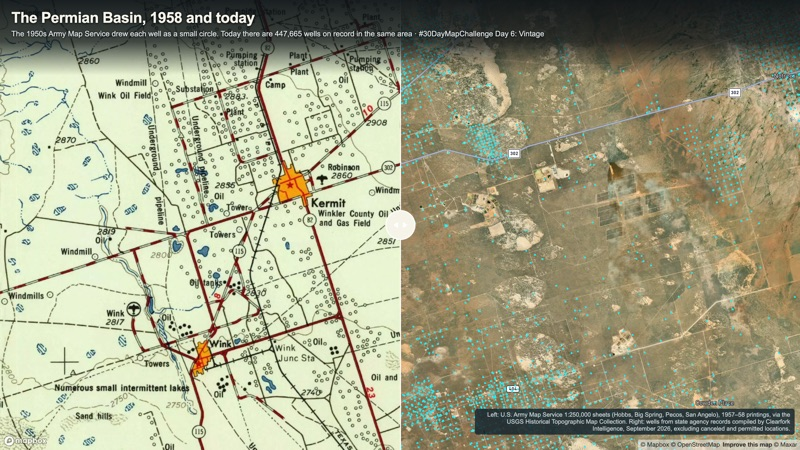
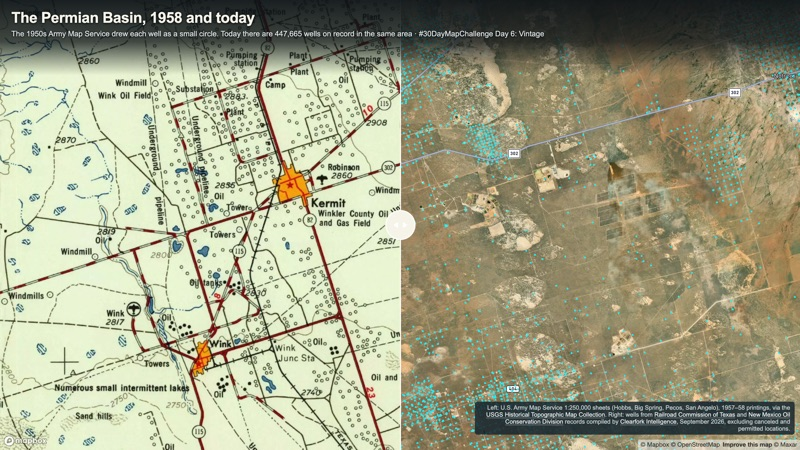
Day 6: link the sources in the map's source box (USGS HTMC, RRC, NM OCD, Clearfork Intelligence)

Changed region(s): [[0.5938, 0.8711, 1.0, 0.9644]]

diff --git a/map-challenge-2026/maps/day06/index.html b/map-challenge-2026/maps/day06/index.html
@@ -34,12 +34,15 @@
 .title{position:absolute;top:18px;left:22px;z-index:5;color:#f6f4e9;pointer-events:none;text-shadow:0 1px 4px #000}
 .title h1{margin:0;font-size:30px;letter-spacing:-.5px}.title p{margin:6px 0 0;font-size:15px;color:#dfe6e8}
 .shade{position:absolute;top:0;left:0;right:0;height:150px;z-index:4;pointer-events:none;background:linear-gradient(#0d1316f0 0%,#0d1316c4 55%,#0d131600 100%)}
-.src{position:absolute;right:10px;bottom:30px;z-index:5;max-width:640px;text-align:right;color:#c9d3d6;font-size:12px;background:#16262ed9;padding:5px 9px;border-radius:5px;pointer-events:none}</style>
+.src{position:absolute;right:10px;bottom:30px;z-index:5;max-width:640px;text-align:right;color:#c9d3d6;font-size:12px;background:#16262ed9;padding:5px 9px;border-radius:5px}
+.src a{color:#e9eef0;text-decoration:underline;text-decoration-color:#e9eef080;text-underline-offset:2px}.src a:hover{color:#fff;text-decoration-color:#fff}</style>
 </head>
 <body>
 <div style="position:relative;width:100vw;height:100vh">
   <div class="shade"></div>
-  <div class="src">Left: U.S. Army Map Service 1:250,000 sheets (Hobbs, Big Spring, Pecos, San Angelo), 1957–58 printings, via the USGS Historical Topographic Map Collection. Right: wells from state agency records compiled by Clearfork Intelligence, September 2026, excluding canceled and permitted locations.</div>
+  <div class="src">
+    Left: U.S. Army Map Service 1:250,000 sheets (Hobbs, Big Spring, Pecos, San Angelo), 1957–58 printings, via the <a href="https://ngmdb.usgs.gov/topoview/viewer/" target="_blank" rel="noopener">USGS Historical Topographic Map Collection</a>. Right: wells from <a href="https://www.rrc.texas.gov/" target="_blank" rel="noopener">Railroad Commission of Texas</a> and <a href="https://www.emnrd.nm.gov/ocd/" target="_blank" rel="noopener">New Mexico Oil Conservation Division</a> records compiled by <a href="https://clearforkintelligence.com" target="_blank" rel="noopener">Clearfork Intelligence</a>, September 2026, excluding canceled and permitted locations.
+  </div>
   <div class="title">
     <h1>The Permian Basin, 1958 and today</h1>
     <p>The 1950s Army Map Service drew each well as a small circle. Today there are 447,665 wells on record in the same area · #30DayMapChallenge Day 6: Vintage</p>
